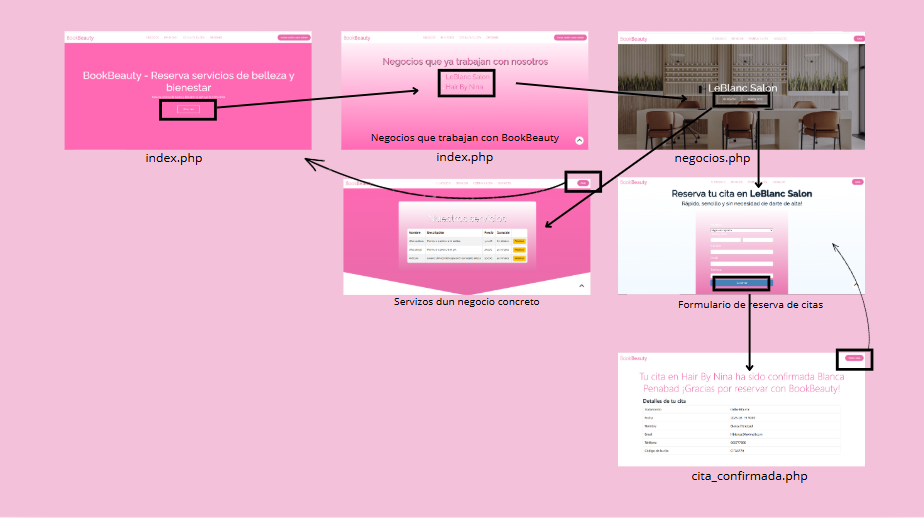
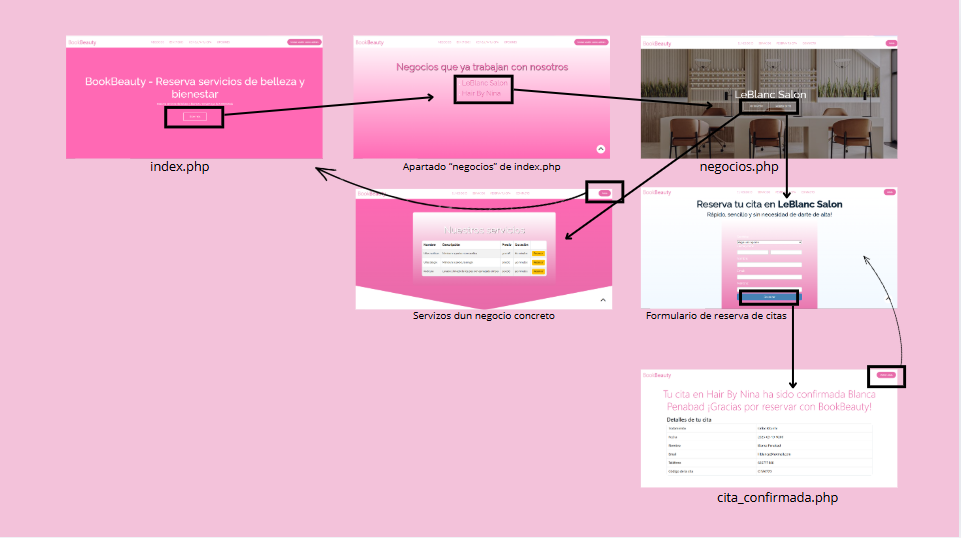
Mockups II

diff --git a/doc/templates/5_deseño.md b/doc/templates/5_deseño.md
@@ -18,6 +18,8 @@ O usuario cliente só vai poder consultar, editar e eliminar as súas citas así
 
 ### a) Usuario cliente anónimo:
 ![Usuario: ](../img/mockupUser.PNG)
+![Usuario: ](../img/mockupUserII.PNG)
+
 
 ### b) Usuario administrador:
 ![Administrador: ](../img/mockupAdmin.PNG)
